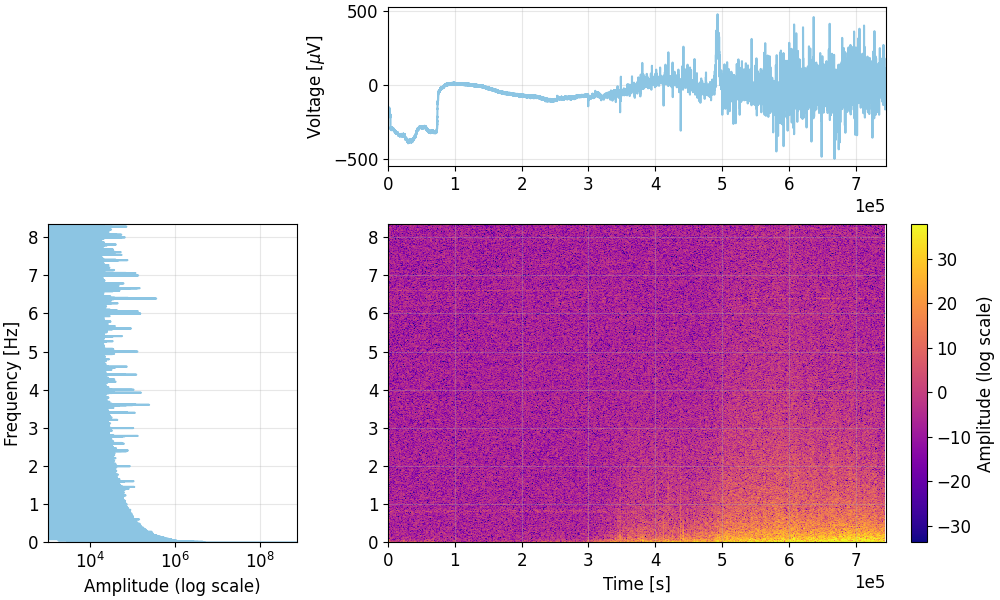
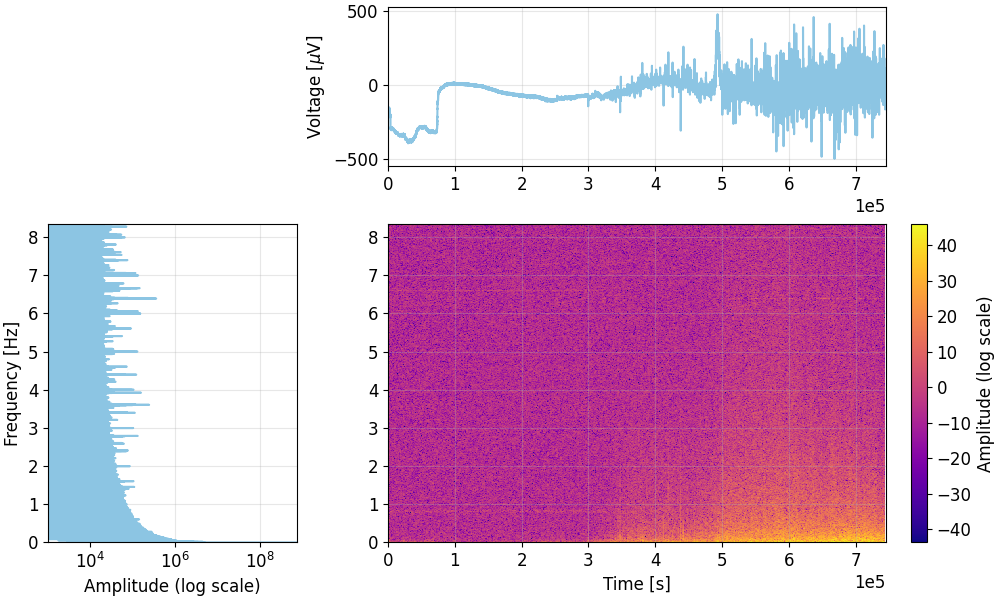
added fft graph

diff --git a/spectrogram.py b/spectrogram.py
@@ -78,7 +78,7 @@ def plotSpectrogram(time, signal, title, save=False, filename=None, log=False):
     Pxx, freq, t = matplotlib.mlab.specgram(signal, NFFT=NFFT, noverlap=NFFT*3//4, Fs=Fs)
 
     Pxx_log = 10 * np.log10(Pxx + 1e-10) # logarithmic amplitude scale
-    pcm = ax2.pcolormesh(t, freq, Pxx_log, cmap='plasma', shading='auto', vmin=np.percentile(Pxx_log, 0.1), vmax=np.percentile(Pxx_log, 99.9))
+    pcm = ax2.pcolormesh(t, freq, Pxx_log, cmap='plasma', shading='auto', vmin=np.percentile(Pxx_log, 0.01), vmax=np.percentile(Pxx_log, 99.99))
     cb = fig.colorbar(pcm, ax=ax2)
     cb.set_label('Amplitude (log scale)')
     ax2.set_xlabel('Time [s]')
@@ -157,6 +157,23 @@ def saveSignal(time, signal, filename):
     plt.savefig(str(filename))
     plt.close(fig)
 
+def saveFFT(time, signal, filename):
+    totalTime = time.iloc[-1]-time.iloc[0]
+    Fs = len(time)/totalTime    
+    
+    fig, ax = plt.subplots()
+    yf = np.fft.rfft(signal)
+    xf = np.fft.rfftfreq(signal.size, d=1/Fs)
+    ax.plot(xf, np.abs(yf))
+    ax.set_ylim([1e3, None])
+    ax.set_xlim(0, 8+1/3)
+    ax.set_yscale('log')
+    ax.set_ylabel('Amplitude (log scale)')
+    ax.set_xlabel("Frequency [Hz]")
+
+    plt.savefig(str(filename))
+    plt.close(fig)
+
 def linLogSpectrograms(time, signal, folderName, signalName, extension, addition='', NFFT=2**16, big=False):
     if big:
         print("Saving Linear Scale Spectrogram...")
@@ -187,6 +204,8 @@ def saveSpectrogramSet(time, signal, signalName, folderName='plots', extension='
                         linLogSpectrograms(time, signal, folderName, signalName, extension, NFFT=i, addition='(NFFT=' + str(i) + ')')
 
 
+# print(np.mean(voltage))
+# print(np.std(voltage))
 
 
 # plotSpectrogram(time, voltage, "Voltage")
@@ -195,12 +214,14 @@ def saveSpectrogramSet(time, signal, signalName, folderName='plots', extension='
 # plotSpectrogram(time, fourier, 'Fourier')
 # plotSpectrogram(time, multiFourier, "MultiFourier")
 
-saveSpectrogramSet(time, signal=voltage, signalName='Voltage', changes=[['NFFT', [2**16, 2**18]]])
-saveSpectrogramSet(time, flattened, '5000ptFlattened')
-saveSpectrogramSet(time, butterworth, 'Butterworth')
-saveSpectrogramSet(time, rollingAverage, "50PtRolling")
-saveSpectrogramSet(time, fourier, 'Fourier')
-saveSpectrogramSet(time, multiFourier, 'MultiFourier')
+# saveSpectrogramSet(time, signal=voltage, signalName='Voltage', changes=[['NFFT', [2**16, 2**18]]])
+# saveSpectrogramSet(time, flattened, '5000ptFlattened')
+# saveSpectrogramSet(time, butterworth, 'Butterworth')
+# saveSpectrogramSet(time, rollingAverage, "50PtRolling")
+# saveSpectrogramSet(time, fourier, 'Fourier')
+# saveSpectrogramSet(time, multiFourier, 'MultiFourier')
 
 # saveSpectrogram(time, multiFourier, 'plots/MultiFourierSpectrogramLogZoom', log=True, zoomToInterestingFrequencies=True)
-# saveSpectrogramSet(time, voltage, 'Voltage', big=True)
+saveSpectrogramSet(time, voltage, 'Voltage', big=True)
+
+# saveFFT(time, voltage, 'plots/VoltageFFT.png')
